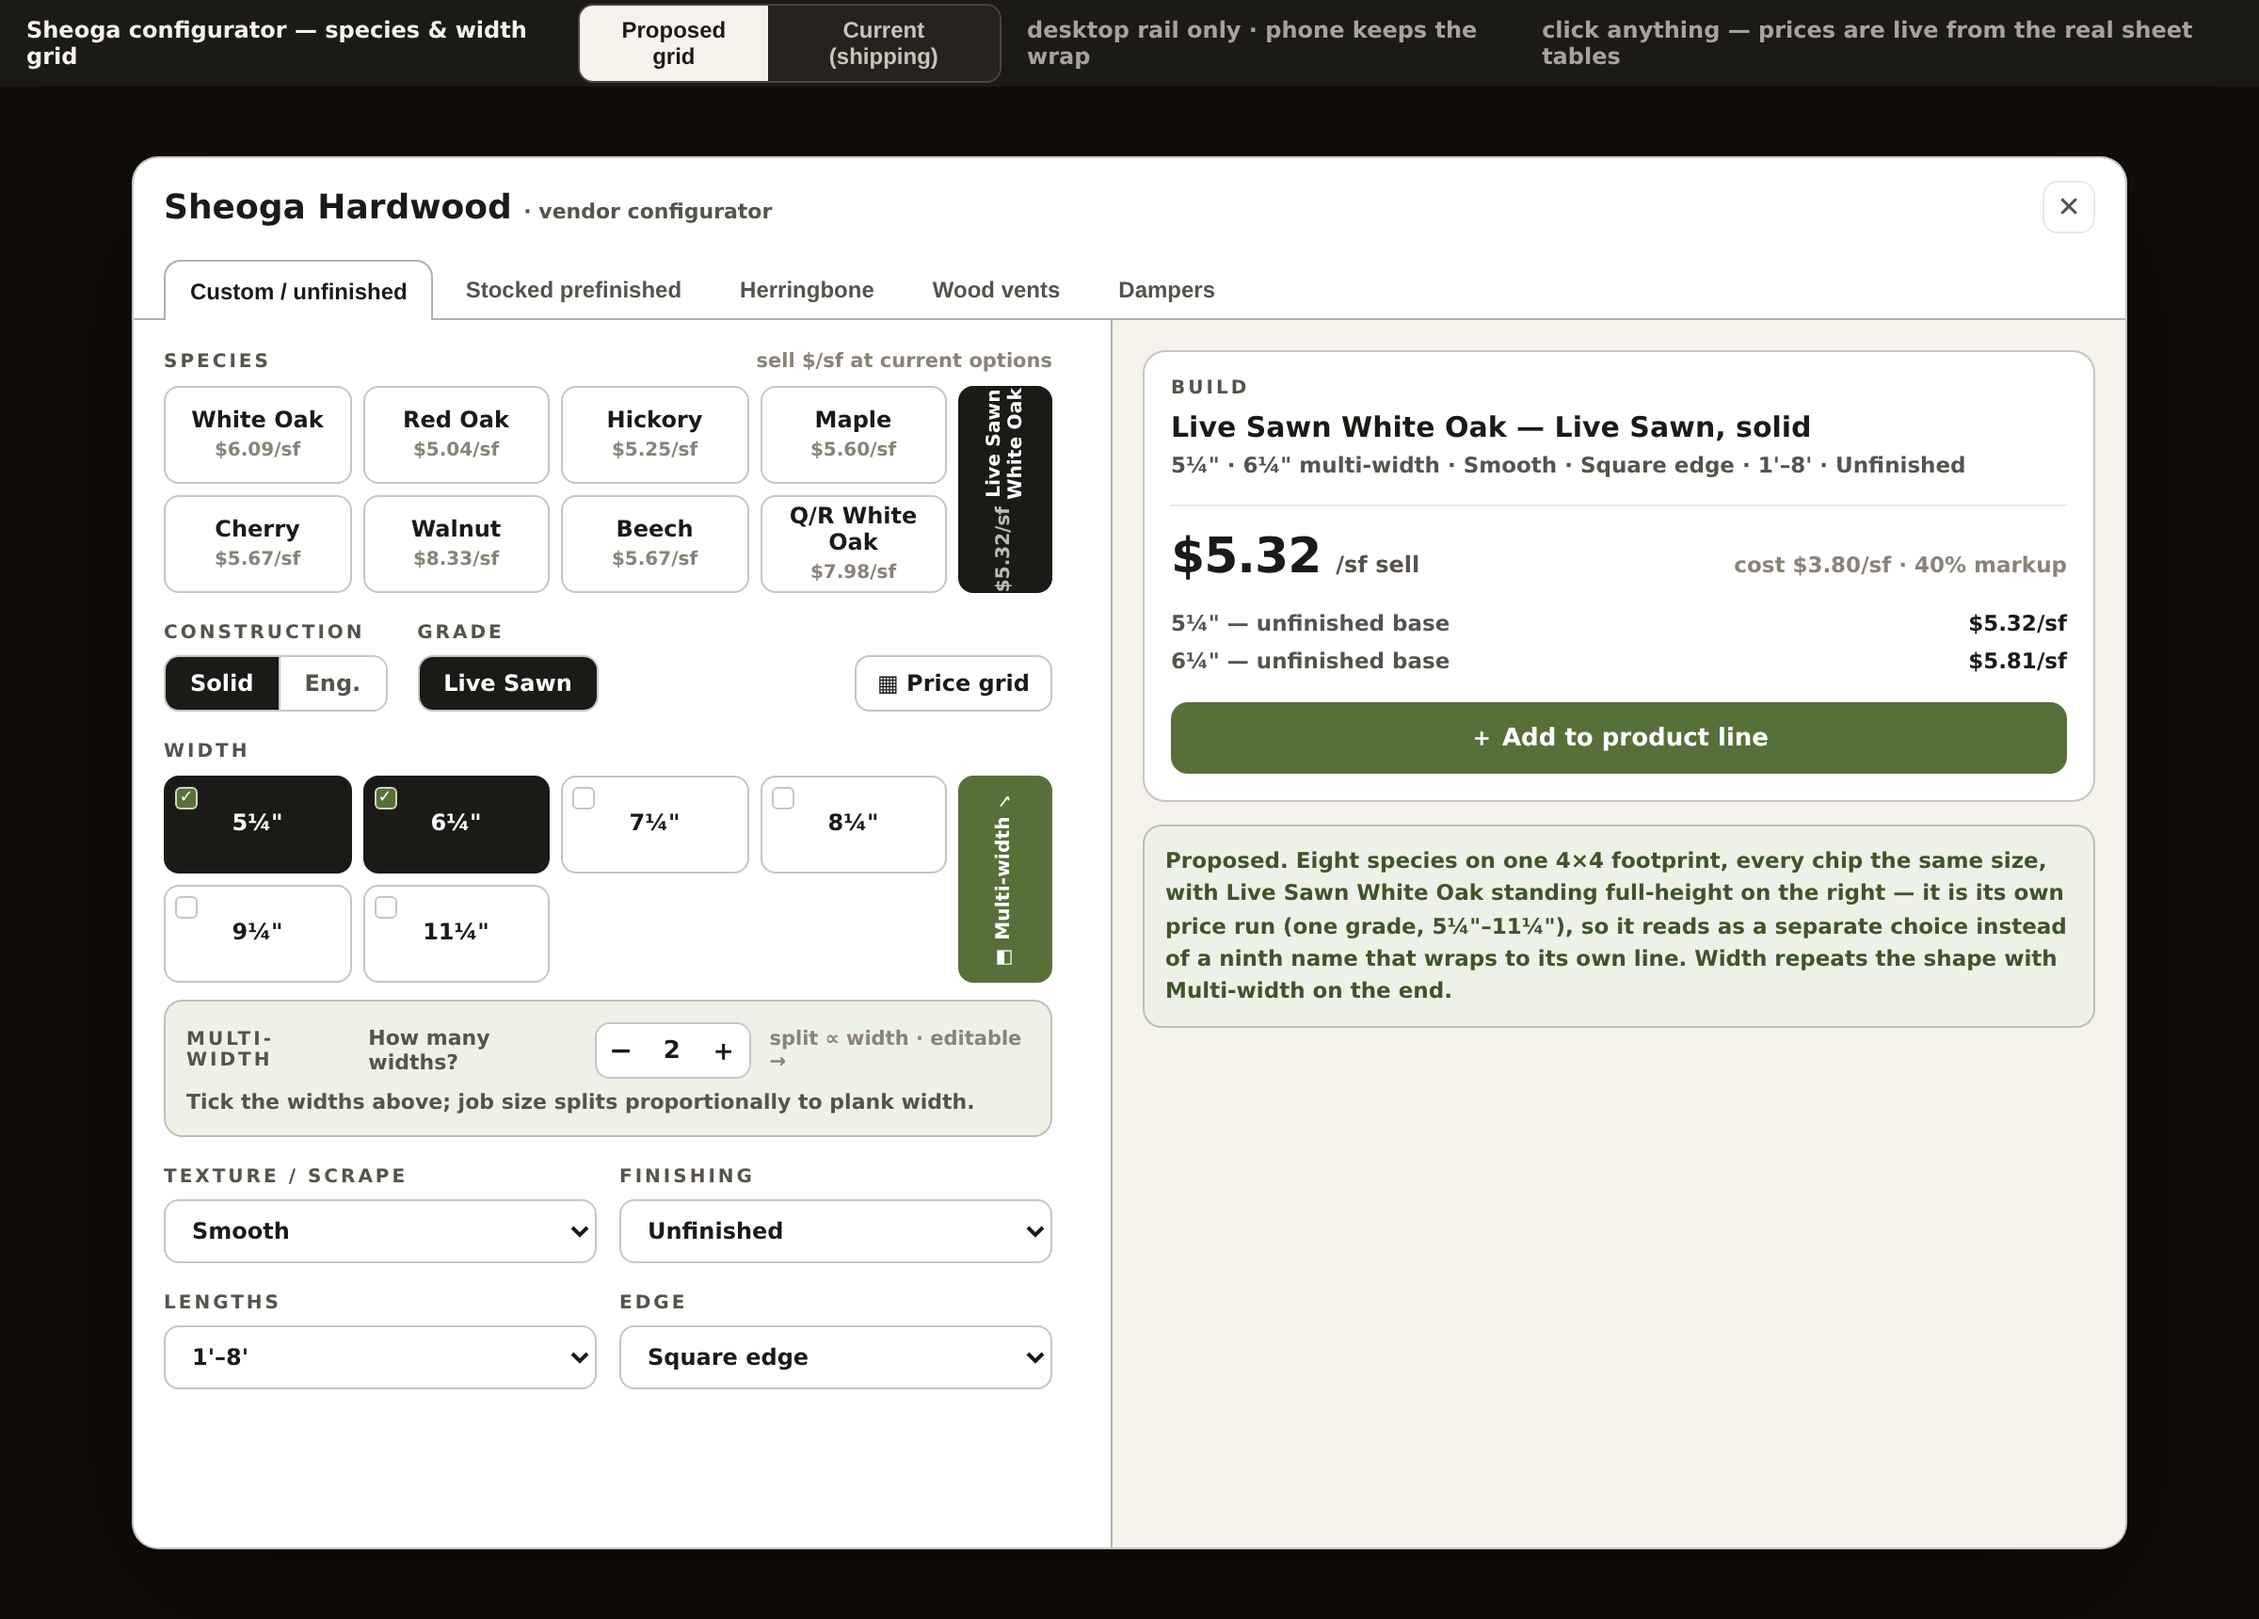
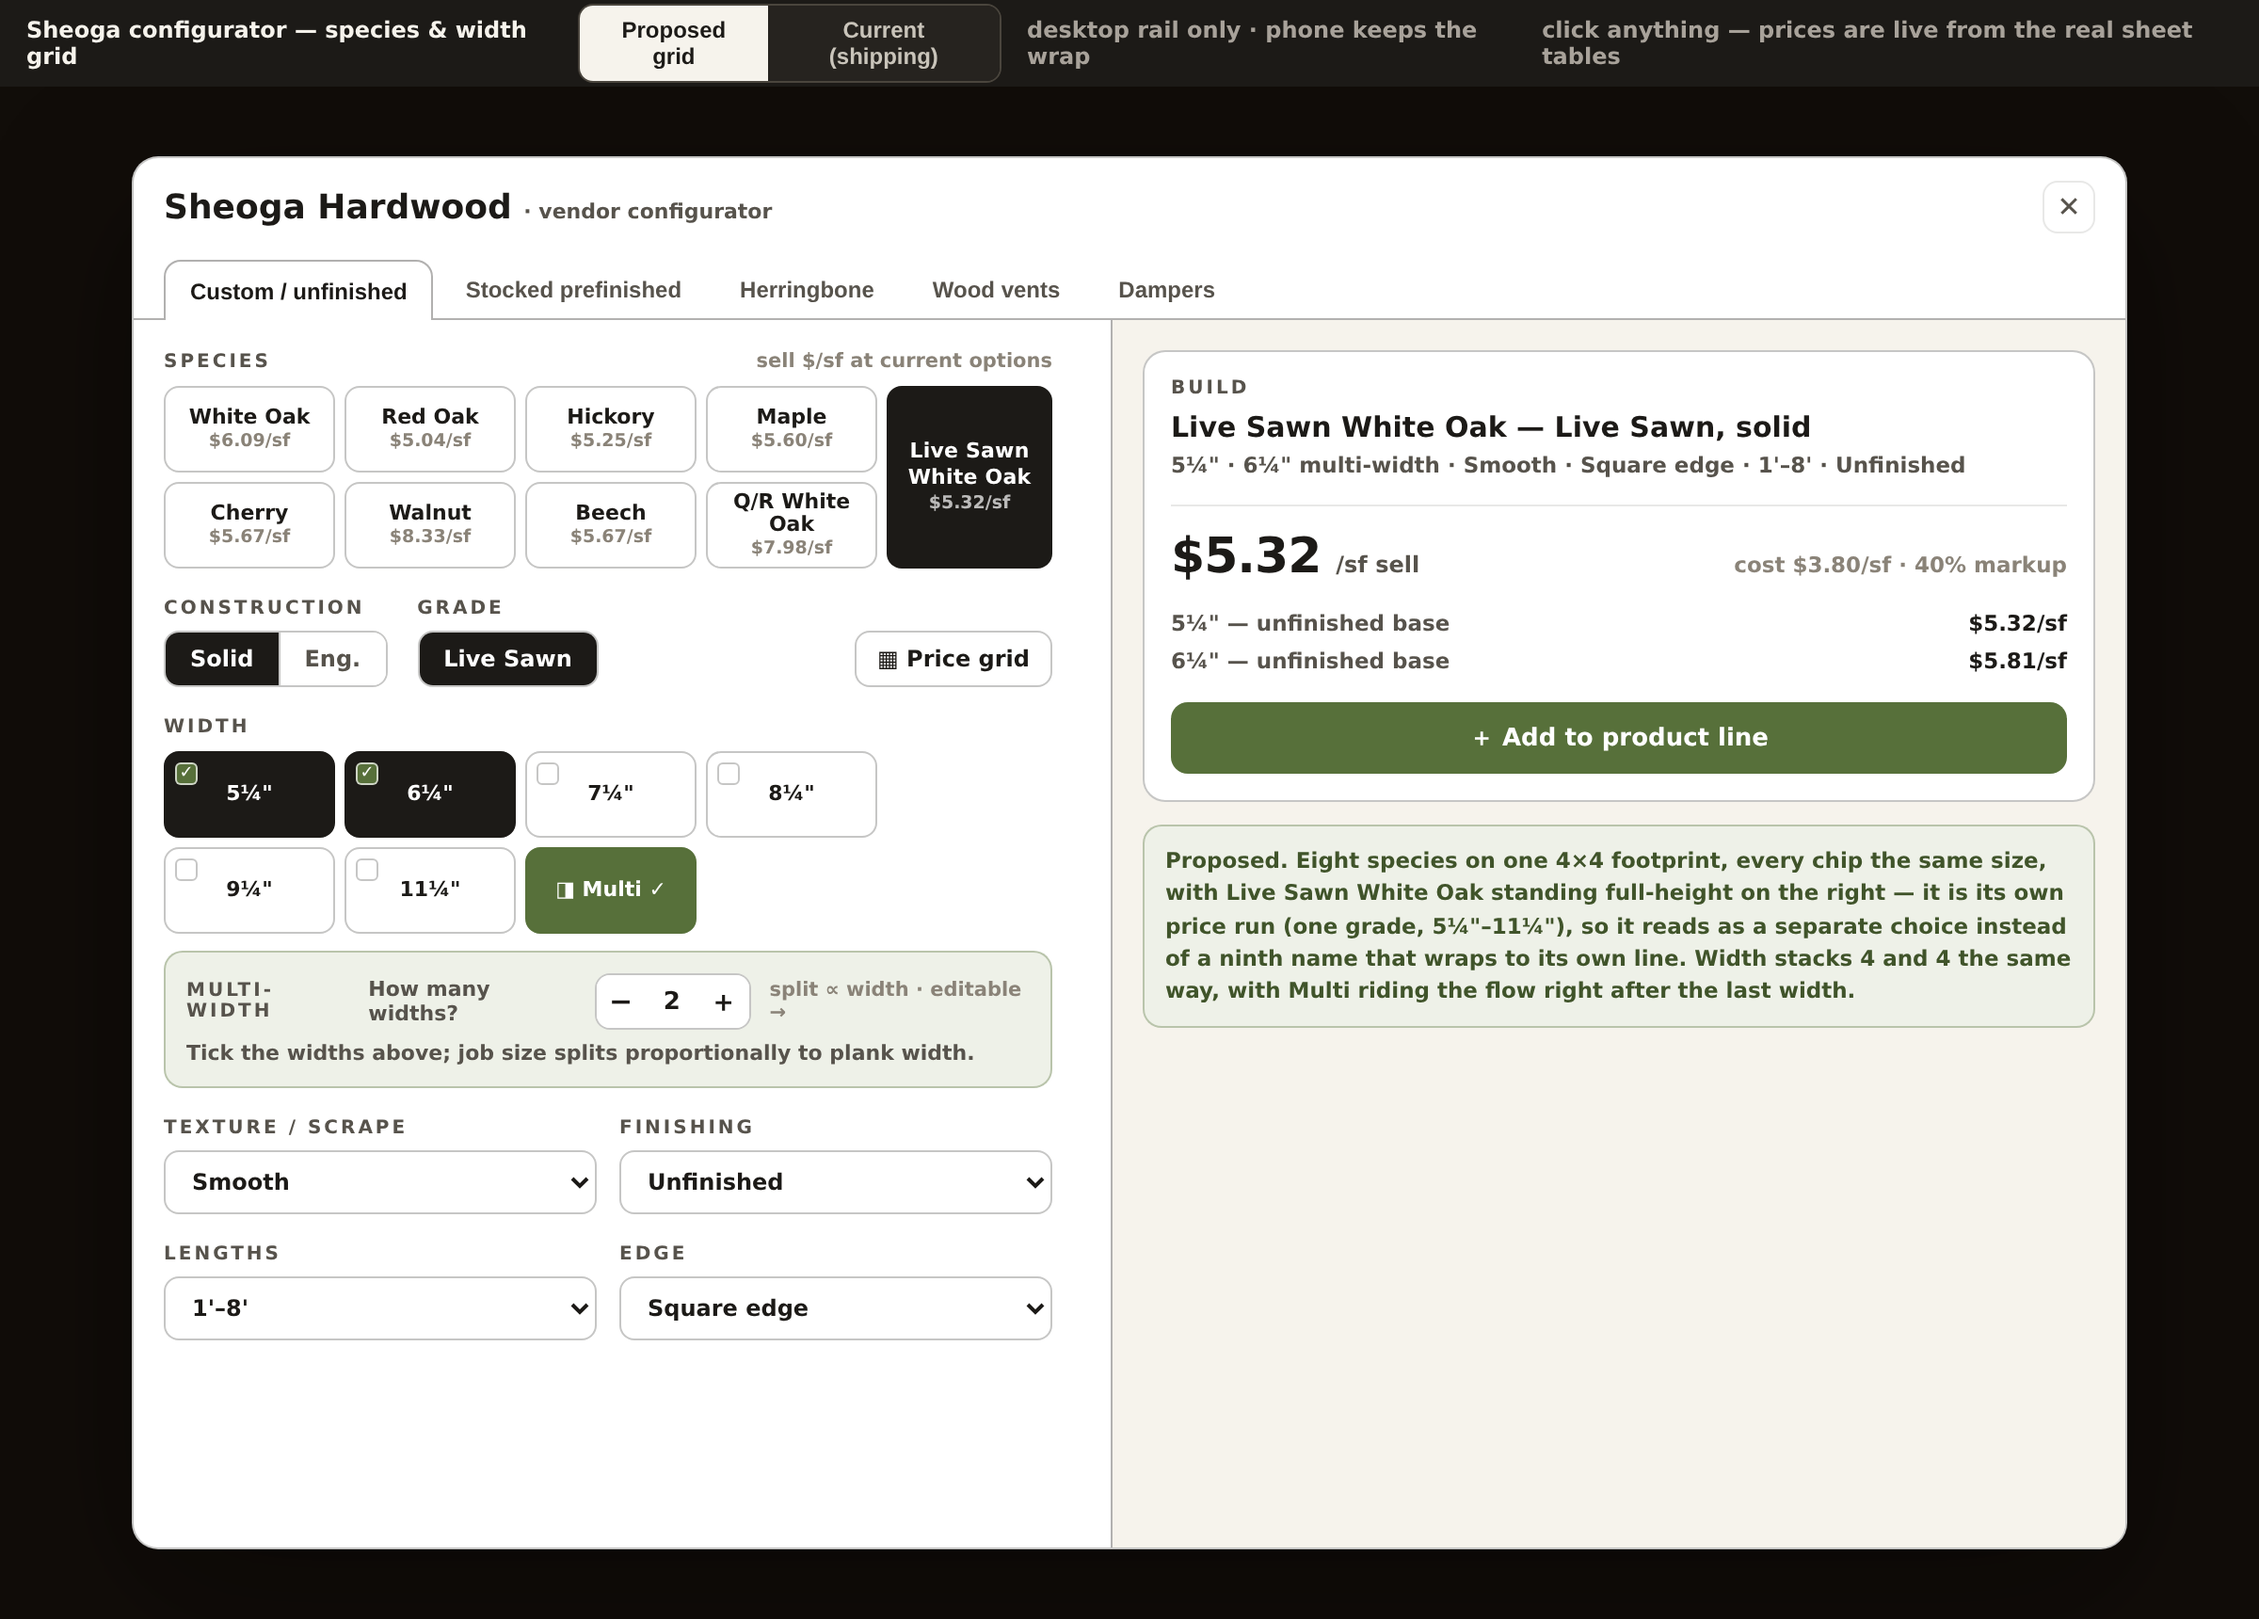
Sheoga grid prototype: horizontal Live Sawn label, tighter chips, inline Multi
Live Sawn White Oak keeps the full-height 5th column but sets its label
horizontally, stacked over its price, in a wider 88px column; the four
regular columns and the row height shrink to pay for it. The width block
stacks 4 and 4 on the same module with the Multi chip back in the flow
after the last width instead of standing vertical.

Claude-Session: https://claude.ai/code/session_014oS5jGcPH7YKZAfqLVJkVP

diff --git a/.scratch/059_sheoga-species-width-grid/mockup.html b/.scratch/059_sheoga-species-width-grid/mockup.html
@@ -55,18 +55,16 @@
   .wrap{display:flex;flex-wrap:wrap;gap:6px;align-items:flex-start}
 
   /* proposed layout: 4 equal columns + a full-height chip on the right.
-     Rows are explicit 1fr so the spanning chip can never stretch row 1. */
-  .grid4{display:grid;grid-template-columns:repeat(4,minmax(0,1fr)) 50px;grid-template-rows:repeat(2,52px);gap:6px;align-items:stretch}
-  .grid4 .chip{display:flex;flex-direction:column;align-items:center;justify-content:center;min-height:44px}
-  .grid4 .chip .s{margin-top:3px}
-  .tall{grid-column:5;grid-row:1 / -1;padding:6px 3px;display:flex;flex-direction:row;align-items:center;justify-content:center;gap:4px;overflow:hidden}
-  .tall .vl,.tall .vs{writing-mode:vertical-rl;transform:rotate(180deg);text-align:center;line-height:1.15;max-height:100%}
-  .tall .vl{white-space:pre;font-size:10px;letter-spacing:.01em}
-  .tall .vs{font-size:10px;font-weight:700;color:var(--ft-faint)}
+     Rows are an explicit fixed height so the spanning chip can never stretch
+     row 1; the 5th column is wide enough to set its label horizontally. */
+  .grid4{display:grid;grid-template-columns:repeat(4,minmax(0,1fr)) 88px;grid-template-rows:repeat(2,46px);gap:5px;align-items:stretch}
+  .grid4 .chip{display:flex;flex-direction:column;align-items:center;justify-content:center;min-height:0;padding:4px 5px;font-size:11px;line-height:1.1}
+  .grid4 .chip .s{font-size:9.5px;margin-top:2px}
+  .tall{grid-column:5;grid-row:1 / -1;padding:5px 6px;display:flex;flex-direction:column;align-items:center;justify-content:center;gap:1px;overflow:hidden}
+  .tall .vl{font-size:11px;line-height:1.22;white-space:pre;letter-spacing:.01em}
+  .tall .vs{font-size:9.5px;font-weight:700;color:var(--ft-faint);margin-top:2px}
   .tall.on .vs{color:rgba(255,255,255,.7)}
   .tall.ls{border-color:var(--ft-border-strong)}
-  .tall.multi{border-style:dashed;border-color:var(--ft-brand);color:var(--ft-brand-deep)}
-  .tall.multi.on{background:var(--ft-brand);border-style:solid;border-color:var(--ft-brand);color:#fff}
 
   /* multi-select checkbox skin (width chips while Multi is on) */
   .chip.pick{position:relative}
@@ -77,7 +75,7 @@
   /* wrap-layout multi chip (the current shipping look) */
   .wrap .chip.pick{padding-left:22px}
   .wrap .chip.pick .box{top:50%;transform:translateY(-50%);left:7px}
-  .chip.multiflat{border-style:dashed;border-color:var(--ft-brand);color:var(--ft-brand-deep);display:inline-flex;align-items:center;gap:5px}
+  .chip.multiflat{border-style:dashed;border-color:var(--ft-brand);color:var(--ft-brand-deep);display:inline-flex;align-items:center;justify-content:center;gap:5px}
   .chip.multiflat.on{background:var(--ft-brand);border-style:solid;border-color:var(--ft-brand);color:#fff}
 
   .row2{display:flex;align-items:flex-end;gap:16px;flex-wrap:wrap;margin-bottom:16px}
@@ -263,6 +261,9 @@ function tallChip(label, sub, {on, cls} = {}){
   b.innerHTML = '<span class="vl">' + label + "</span>" + (sub != null ? '<span class="vs">' + sub + "</span>" : "");
   return b;
 }
+// Width chips sit in columns 1-4 only, so they stay exactly the size of the
+// species chips instead of spreading into the 5th (tall) column.
+function place(node, i){ node.style.gridColumn = (i % 4) + 1; node.style.gridRow = Math.floor(i / 4) + 1; }
 
 // --- species ------------------------------------------------------------------
 function speciesSub(sp){
@@ -342,12 +343,13 @@ function renderWidth(){
     box.appendChild(wrap);
   } else {
     const g = el("div", "grid4");
-    // Two rows of four, exactly like Species; Live Sawn's six widths leave the
-    // last two cells open rather than reflowing the column widths.
-    g.style.gridTemplateRows = "repeat(" + Math.max(2, Math.ceil(ws.length / 4)) + ", 52px)";
-    ws.forEach((w) => g.appendChild(mkChip(w)));
-    const m = tallChip("◨ Multi-width" + (st.multi ? " ✓" : ""), null, {on: st.multi, cls:"multi"});
+    // Four and four, exactly like Species; Multi rides the flow as an ordinary
+    // chip right after the last width.
+    g.style.gridTemplateRows = "repeat(" + Math.max(2, Math.ceil((ws.length + 1) / 4)) + ", 46px)";
+    ws.forEach((w, i) => { const c = mkChip(w); place(c, i); g.appendChild(c); });
+    const m = chip("◨ Multi" + (st.multi ? " ✓" : ""), null, {on: st.multi, cls:"multiflat"});
     m.onclick = () => { st.multi = !st.multi; render(); };
+    place(m, ws.length);
     g.appendChild(m);
     box.appendChild(g);
   }
@@ -397,7 +399,7 @@ function renderBuild(){
        ["Texture — Smooth", "—"], ["Edge — Square", "—"]];
   document.getElementById("bBrk").innerHTML = rows.map((r) => '<div class="r"><span>' + r[0] + "</span><span>" + r[1] + "</span></div>").join("");
   document.getElementById("note").innerHTML = st.layout === "new"
-    ? "<b>Proposed.</b> Eight species on one 4×4 footprint, every chip the same size, with Live Sawn White Oak standing full-height on the right — it is its own price run (one grade, 5¼\"–11¼\"), so it reads as a separate choice instead of a ninth name that wraps to its own line. Width repeats the shape with Multi-width on the end."
+    ? "<b>Proposed.</b> Eight species on one 4×4 footprint, every chip the same size, with Live Sawn White Oak standing full-height on the right — it is its own price run (one grade, 5¼\"–11¼\"), so it reads as a separate choice instead of a ninth name that wraps to its own line. Width stacks 4 and 4 the same way, with Multi riding the flow right after the last width."
     : "<b>Current (shipping).</b> Free-wrapping chips: widths differ per name, Live Sawn drops to its own line, and Multi lands wherever the wrap leaves it.";
 }
 

diff --git a/.scratch/059_sheoga-species-width-grid/README.md b/.scratch/059_sheoga-species-width-grid/README.md
@@ -14,20 +14,21 @@
 Both blocks become one grid instead of a free-wrapping chip row:
 
 ```
-grid-template-columns: repeat(4, 1fr) 50px;   /* 4 equal cells + the tall column */
-grid-template-rows:    repeat(2, 52px);       /* two lines, fixed height          */
+grid-template-columns: repeat(4, 1fr) 88px;   /* 4 equal cells + the tall column */
+grid-template-rows:    repeat(2, 46px);       /* two lines, fixed height          */
 ```
 
 - **Species** — the eight sheet species (White Oak · Red Oak · Hickory · Maple /
   Cherry · Walnut · Beech · Q/R White Oak) fill the 4 × 2 block, every chip the
   same width and height regardless of name length. **Live Sawn White Oak** sits
   in the 5th column, `grid-row: 1 / -1`, so it is exactly as tall as the two
-  rows beside it, its label set vertically (`writing-mode: vertical-rl` +
-  `rotate(180deg)`, an explicit break so it reads "Live Sawn / White Oak"
-  bottom-to-top) with its sell price as a second vertical line.
-- **Width** — same grid. Widths flow 4 per row (7 for a normal species, 6 for
-  Live Sawn, so the tail cells sit empty rather than reflowing the columns), and
-  the **Multi-width** chip takes the tall 5th column, keeping its dashed-green
+  rows beside it. Its label is set horizontally, stacked "Live Sawn / White Oak"
+  over its sell price; the column is 88px wide to hold that, and the four
+  regular columns give up the difference — chips are tighter both ways (46px
+  rows, 11px label) than the wrapping version they replace.
+- **Width** — same 4-and-4 stack on the same module (widths keep to columns 1–4
+  so a width chip is exactly a species chip), and the **Multi** chip stays an
+  ordinary in-flow chip right after the last width, in its dashed-green
   "not a width, a mode" treatment. Ticking it flips the width cells to
   checkboxes exactly as today; the split panel still drops in underneath.
 
@@ -38,7 +39,7 @@ than a ninth name in the same list.
 ## Desktop only
 
 The grid is the ≥768px rail. The phone sheet keeps the wrapping chips (a fixed
-4-wide grid at 390px would make each cell ~80px, too narrow for
+4-wide grid at 390px would make each cell ~70px, too narrow for
 "Q/R White Oak" plus a price).
 
 ## Shots
@@ -47,7 +48,7 @@ The grid is the ≥768px rail. The phone sheet keeps the wrapping chips (a fixed
 |---|---|
 | `A1-proposed-white-oak.png` | proposed grid, default build |
 | `A2-proposed-live-sawn.png` | Live Sawn selected — grade collapses to one, widths become its own run |
-| `A3-proposed-multi.png` | Multi-width on — width cells become checkboxes, tall chip goes solid green |
+| `A3-proposed-multi.png` | Multi on — width cells become checkboxes, the Multi chip goes solid green |
 | `A4-current-shipping.png` | what ships today: free wrap, Live Sawn on its own line |
 | `A5-current-multi.png` | today's Multi chip, wherever the wrap leaves it |
 
@@ -60,5 +61,8 @@ Touches `FloorRail` / `StockedRail` in `src/SheogaConfigurator.jsx` only —
 `Chips` and `WidthRow` grow a grid variant behind the existing `useIsWide`
 switch. No engine, pricing, or data change; `sheoga.js` is untouched.
 
-Open question for the stocked tab: it has 4–5 widths and 4 species, so the same
-4-wide grid leaves a fuller-looking block — worth eyeballing before it ships.
+Two things to eyeball before it ships: the **Stocked prefinished** tab has 4
+species and 4–5 widths, so the same grid reads differently there; and the width
+block now ends one column short of the species block (nothing occupies the tall
+column under Width) — deliberate, so the two blocks share one chip size, but
+it's a visible ragged edge.
